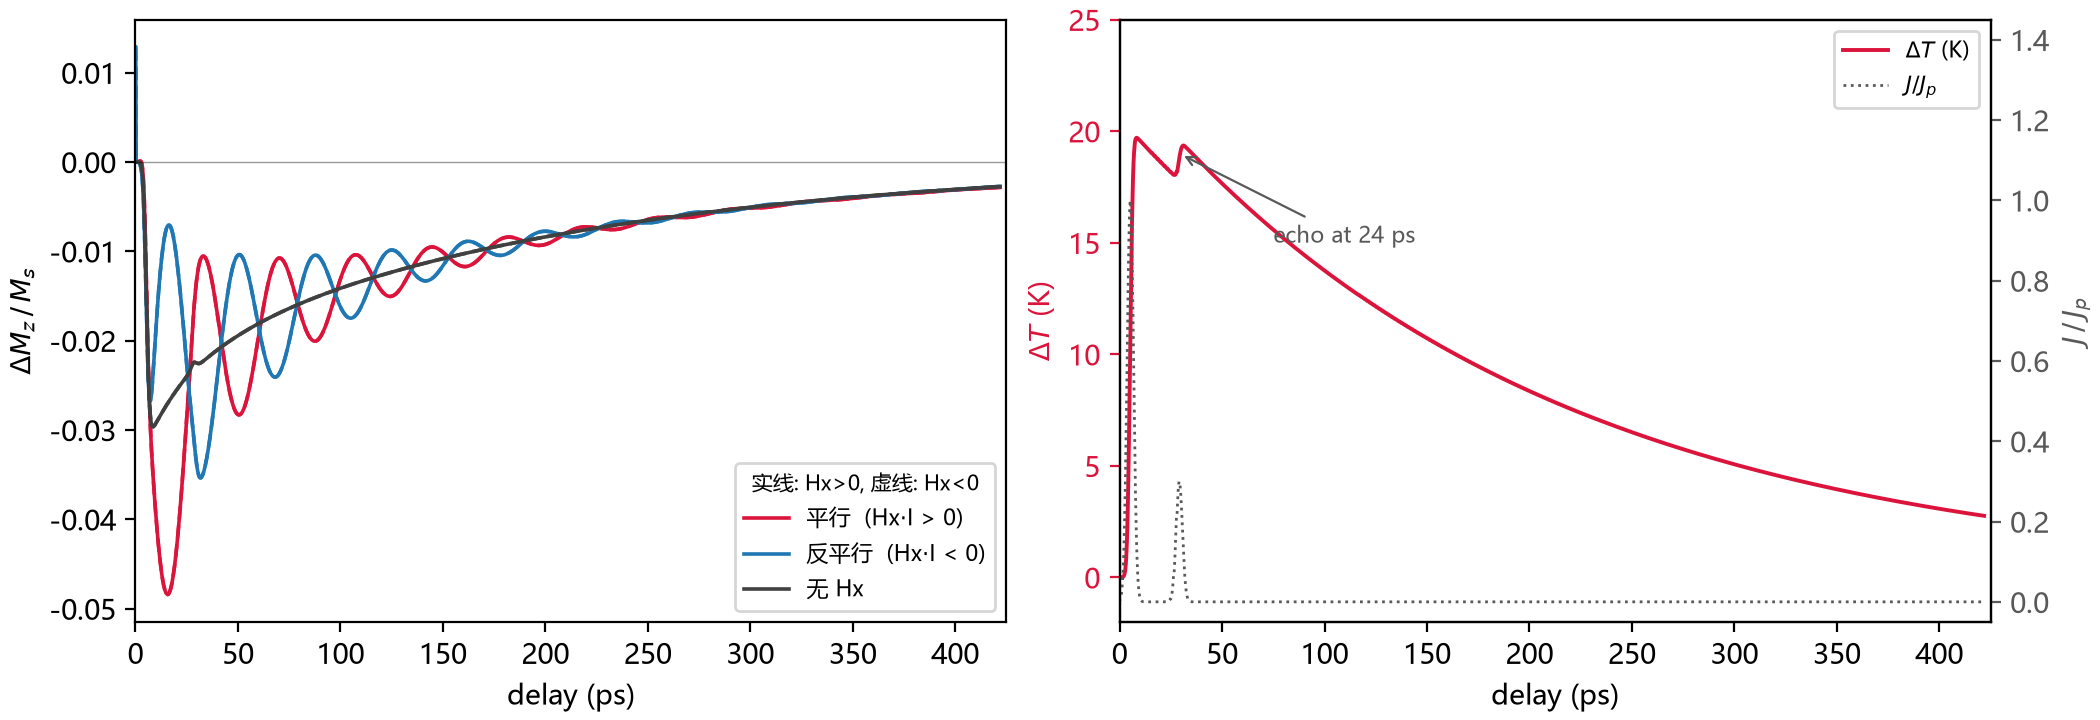
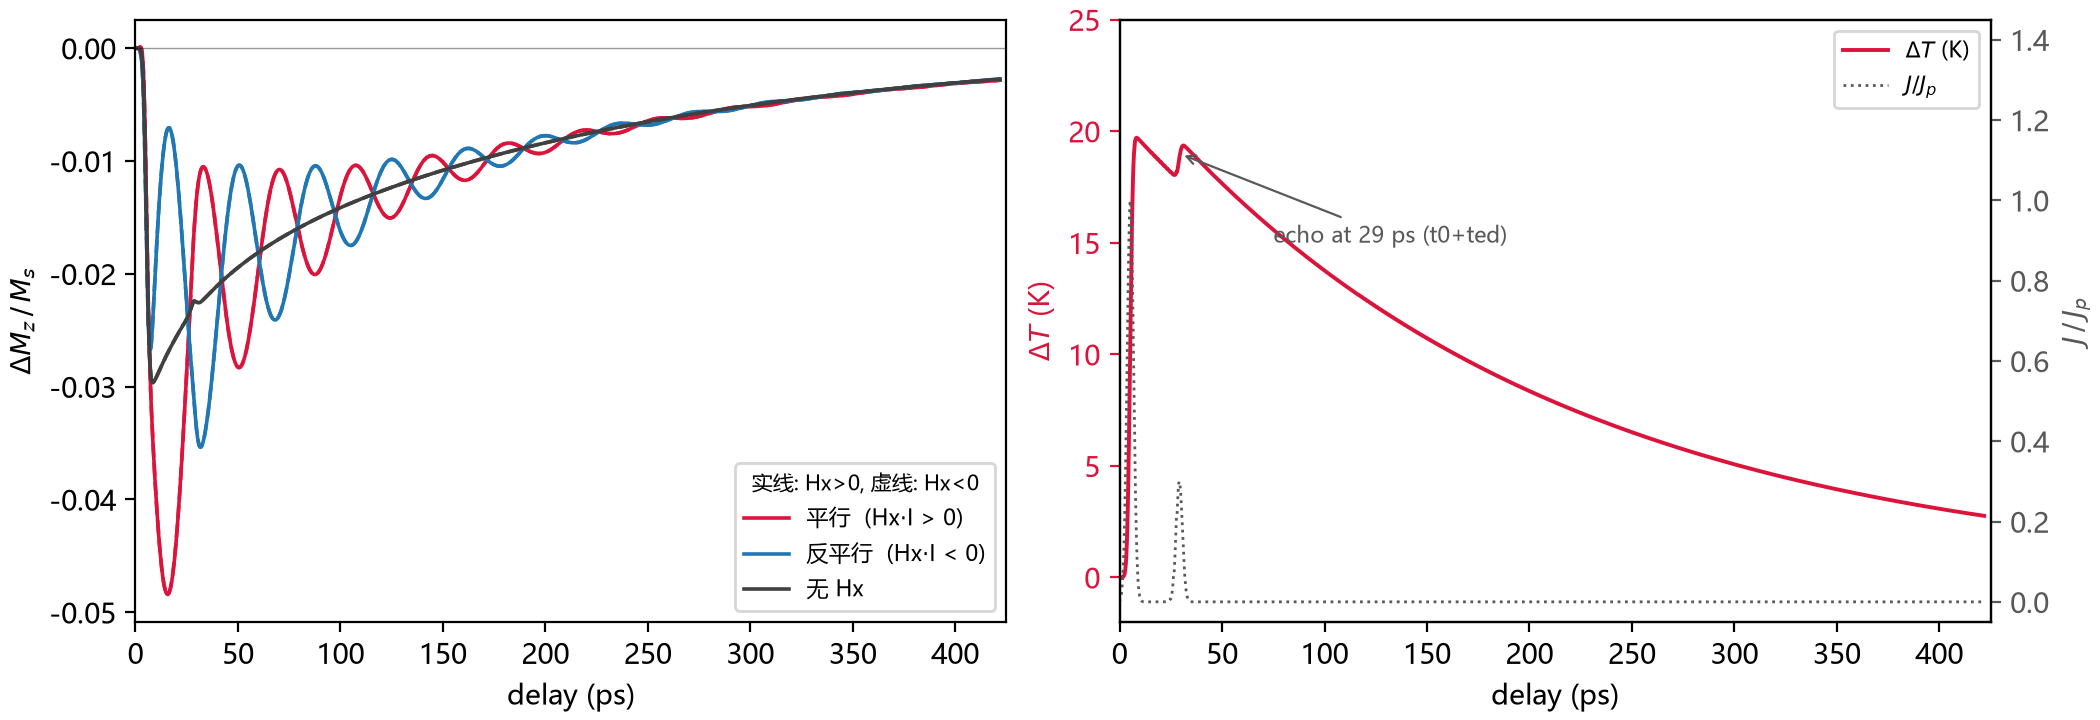
Fix result consistency: antiparallel dMz overshoot, relaxed baseline, signed switch criterion, MUMAX3_BIN override

diff --git a/simulations/mumax3_sot/run_case.py b/simulations/mumax3_sot/run_case.py
@@ -20,7 +20,7 @@ import re
 import subprocess
 import sys
 
-MUMAX = r"E:\mumax3.12_windows_cuda12.9\mumax3.exe"
+MUMAX = os.environ.get("MUMAX3_BIN", r"E:\mumax3.12_windows_cuda12.9\mumax3.exe")
 SUMMARY = "summary.csv"
 
 
@@ -62,7 +62,8 @@ def read_table(path):
                 if abs(mz) > 1e-9:
                     recov = abs(r[idx["mz"]]) / abs(mz)
                 break
-    return t, mz, tmax, t_cross, recov
+    mz0 = rows[0][idx["mz"]]  # first table row = initial state (sign only)
+    return t, mz, tmax, t_cross, recov, mz0
 
 
 def main():
@@ -111,11 +112,11 @@ def main():
     table = os.path.join(out_dir, "table.txt")
     if not os.path.isfile(table):
         raise SystemExit("no table.txt produced")
-    t_end, mz, tmax, t_cross, recov = read_table(table)
+    t_end, mz, tmax, t_cross, recov, mz0 = read_table(table)
 
     row = {"tag": args.tag, "time": datetime.datetime.now().isoformat(timespec="seconds"),
            "t_end_ps": "%.1f" % (t_end * 1e12), "mz_final": "%.4f" % mz,
-           "switched": int(mz < 0), "Tmax_K": "%.0f" % tmax,
+           "switched": int(mz * mz0 < -0.5), "Tmax_K": "%.0f" % tmax,
            "t_cross_ps": "" if t_cross != t_cross else "%.1f" % (t_cross * 1e12),
            "recov_50ps": "" if recov != recov else "%.2f" % recov}
     row.update(sets)

diff --git a/simulations/mumax3_sot/plot_fig4.py b/simulations/mumax3_sot/plot_fig4.py
@@ -78,6 +78,9 @@ def main():
             t = c["t"] * 1e12
             t_ref = t
             dmz, kref = observable(c)
+            # the first table row (t=0) is the un-relaxed m=+z state; masking it
+            # removes the spurious +1.3% spike present in every Hx != 0 run
+            dmz[np.isclose(t, 0.0)] = np.nan
             ax[0].plot(t, dmz, color=color, ls=ls, lw=1.3,
                        label=label if i == 0 else None)
 
@@ -105,7 +108,7 @@ def main():
     h1, l1 = ax[1].get_legend_handles_labels()
     h2, l2 = axt.get_legend_handles_labels()
     ax[1].legend(h1 + h2, l1 + l2, fontsize=8, loc="upper right")
-    ax[1].annotate("echo at 24 ps", xy=(29, 19), xytext=(75, 15),
+    ax[1].annotate("echo at 29 ps (t0+ted)", xy=(29, 19), xytext=(75, 15),
                    fontsize=8, color="0.35",
                    arrowprops=dict(arrowstyle="->", color="0.35", lw=0.8))
 

diff --git a/FACTS.md b/FACTS.md
@@ -12,9 +12,9 @@
 
 ## 2. 运行环境
 
-1. mumax3 v3.12（CUDA 12.9），exe 路径 `E:\mumax3.12_windows_cuda12.9\mumax3.exe`；`run_case.py` 中 `MUMAX` 常量写死该路径。【约定】
+1. mumax3 v3.12（CUDA 12.9），exe 默认路径 `E:\mumax3.12_windows_cuda12.9\mumax3.exe`；`run_case.py` 的 `MUMAX` 可用环境变量 `MUMAX3_BIN` 或 `--mumax` 覆盖。【约定】
 2. 记录到的硬件：`error.md` 为 RTX 5060 Laptop 8 GB；交接文档称目标机为 RTX 4070 SUPER（sm_89）。两处来源不同，未在 README 复述。
-3. Python 3.12 + numpy / matplotlib（pandas 用于 `table.txt` 后处理）。【约定】
+3. Python 3.12 + numpy / matplotlib（pandas 用于 `table.txt` 后处理）；依赖见 `requirements.txt`。【约定】
 4. 运行中 GUI：`http://127.0.0.1:35367`；常用参数 `-o` 输出目录、`-f` 覆盖、`-vet` 仅查语法、`-i` 交互 GUI。【约定】
 
 ## 3. 论文关键参数（复现输入）
@@ -24,7 +24,7 @@
 | 叠层 | Ta(5)/Pt(4)/Co(1)/Cu(1)/Ta(4)/Pt(1) nm | Co 为 PMA 层；Pt、Ta 自旋霍尔角反号、转矩相加 |
 | 器件 | 磁条 20×4 µm；过流窗口 5×4 µm | 仿真取过流窗口 |
 | 各向异性场 Ha | ≈ 1 T | 由 FMR 周期 ~40 ps 反推 |
-| Keff | ≈ 8.2×10⁵ J/m³ | 正文反推值 |
+| Keff | 论文未给（正文仅给 Ha≈1 T，Ms 在 SI） | 现行脚本取 6.5×10⁵ J/m³ = ½·Ms·Ha_T（Ha 按 B=1 T 计） |
 | 自旋霍尔角 | θ_DL = 0.20；θ_FL = 0.05 | 宏自旋拟合值 |
 | 脉冲 | sech²；翻转实验 FWHM = 6 ps；时间分辨 FWHM = 3.7 ps | |
 | 面内辅助场 | Hx = ±160 mT | Hx ≈ 120 mT 时不翻转 |
@@ -46,7 +46,7 @@
    DisableZhangLiTorque = true
    FreeLayerThickness   = 1e-9
    ```
-2. **极性约定**：`J_z = -I_sign*Jp*脉冲(t)`（macrospin）；实测 `sign(mz_final) = -sign(Hx*I)`，与初始态无关；Hx = 0 时不翻转。【已核实】
+2. **极性约定**：`J_z = -I_sign*Jp*脉冲(t)`（macrospin）；实测 `sign(mz_final) = -sign(Hx*I)`（现行批量 run 均为 +Mz 初态；"与初始态无关"为论文结论，本仓库未跑负初态）；Hx = 0 时不翻转。【已核实】
 3. **各向异性**：`Msat` 必须显式赋值（mumax3 默认 0）；`Ku1 = Keff + ½μ₀Ms²`，`Keff = 0.5*Ms*Ha_T`（Ha_T 用 T）；Ms = 1.3e6、Ha = 1 T → Keff = 6.5e5、Ku1 ≈ 1.71e6 J/m³，退磁相减后净 PMA 场 = 1 T。【已核实】
 4. **B_ext 单位是特斯拉**，不是 A/m（Hx = 160 mT → `B_ext = vector(0.160, 0, 0)`）。【已核实】
 5. **精确时间步**：`SetSolver(4)` + `FixDt = 5e-14`；脉冲写成内置时间 `t` 的函数；温度 ODE 用实测经过时间 `tb - tprev` 积分。默认自适应 RK45 会拉长脉冲（曾把 6 ps 拉成 27.6 ps，见 §6 末）。【已核实】
@@ -77,21 +77,21 @@
    | 1.2e13 | 450 K | 725 K | 50.1 ps | −0.988 | 158.9 pJ | 翻转 |
    | 2.0e13 | 450 K | 725 K | **39.0 ps（最快）** | −0.988 | 441 pJ | 翻转（论文模型最快 16 ps） |
 
-4. **四象限极性**（fig3 默认：Jpk = 1.2e13、dTpk = 400 K、Tmax = 680 K）：q1 (Hx+,I+) → −0.956；q2 (Hx−,I+) → +0.987；q3 (Hx+,I−) → +0.987；q4 (Hx−,I−) → −0.956；末态为均匀单畴（无畴壁/成核，近相干翻转）。
+4. **四象限极性**（fig3 默认：Jpk = 1.2e13、dTpk = 400 K、Tmax = 680 K）：q1 (Hx+,I+) → −0.956；q2 (Hx−,I+) → +0.987；q3 (Hx+,I−) → +0.987；q4 (Hx−,I−) → −0.956；末态为均匀单畴（无畴壁/成核，近相干翻转；仅开边界的边缘列被钉扎）。
 5. **C2 对称性对照**（与 b1_Jp8_dT450 完全同参，仅 Hx = 0）：瞬态最低 mz = 0.80（40.2 ps）后恢复，末态 +1.0000、无过零 → Hx ≠ 0 为翻转的必要条件。
 6. **B2 θ≈0**（Pol = 1e-4，EpsilonPrime = 0，Jp = 8e12）：dT = 300 K 不翻；dT = 450/600/800 K 分别在 **85.9/92.3/122.4 ps** 过零（Tmax = 725/867/1056 K）→ 仅热各向异性力矩也能翻转，但更慢、更热。
 7. **B3 Ku(T) 开关**：`KuExp = 0`（Ku 不随 T 变）到 Jp = 1.4e13 仍不翻；`KuExp = 3` 在 1e13 部分/1.2e13 完全翻转 → 热各向异性力矩为必要项，阈值能量比 ≥ 2。
-8. **C0 Heating = 0**（6/8/10e12）：三档均不翻（T 恒 300 K），峰值瞬态下拉仅 −8.1%/−12.4%/−17.6%（≈33 ps）→ 6–10e12 的确定性翻转完全依赖焦耳热。
-9. **C1 相图边界**：9e12/300 K 不翻（末态 +0.933）；8e12/375 K 翻 66.5 ps（654 K）；7e12/450 K 翻 61.0 ps；6e12/600 K 翻 80.5 ps。边界：Tmax = 583 K 线上 Jc ∈ (9,10]e12；Jp = 8e12 竖线上 dTc ∈ (300,375] K。
+8. **C0 Heating = 0**（6/8/10e12）：三档均不翻（T 恒 300 K），峰值瞬态下拉仅 −8.1%/−12.4%/−17.6%（相对弛豫平衡态 mz=0.988，≈33 ps；表首行 t=0 为未弛豫态 mz=1，勿用作基准）→ 6–10e12 的确定性翻转完全依赖焦耳热。
+9. **C1 相图边界**：9e12/300 K 不翻（末态 +0.933）；8e12/375 K 翻 66.5 ps（654 K）；7e12/450 K 翻 61.0 ps（54.1 pJ）；6e12/600 K 翻 80.5 ps（39.7 pJ，Tmax=867 K > Tc）。边界：Tmax = 583 K 线上 Jc ∈ (9,10]e12；Jp = 8e12 竖线上 dTc ∈ (300,375] K。
 10. **b0_8e12**（J_ref = 6e12，dT_ref = 300 K → Tmax = 804 K）：54.5 ps 翻转。
-11. **Fig. 4 动力学**（a_f4_* / f4_*）：进动周期 ≈ 37 ps（论文 Ha≈1 T 对应 ~40 ps）；平行组下冲 −4.8% @15.8 ps、反平行组上冲 +1.3%；Hx = 0 时 ±I 曲线重合且无振荡；400 ps 后恢复至 ≈ −0.25%；echo = 0.3、ted = 24 ps 在 T(t) 上产生次级峰。`dyn_Jp1e12_Ip`（RunDynamics=1、3.7 ps、1e12、Tmax ≈ 308 K）：末态 +0.9879，不翻转。
+11. **Fig. 4 动力学**（a_f4_* / f4_*）：进动周期 ≈ 37 ps（论文 Ha≈1 T 对应 ~40 ps）；平行组下冲 −4.8% @15.8 ps；反平行组在绘制的 ΔMz/Ms 上**无正上冲**（最低 −3.5% @31.8 ps），原始 mz 会从 0.987 升到 0.999，但被 Ms(T) 下降掩盖；图/表 t=0 的 +1.3% 尖峰是首行未弛豫态（mz=1）伪影，所有 Hx≠0 曲线都有，并非反平行特征。Hx = 0 时 ±I 曲线重合且无振荡；400 ps 后恢复至 ≈ −0.25%；echo = 0.3、ted = 24 ps 在 T(t) 上产生次级峰（主脉冲 t0=5 ps，峰位 ~29–31 ps）。`dyn_Jp1e12_Ip`（RunDynamics=1、3.7 ps、1e12、Tmax ≈ 308 K）：末态 +0.9879，不翻转。
 12. **历史修正**：早期自适应步长脚本的"Jp = 6e12 翻转"是脉冲被拉长到 27.6 ps 的假象（积分对应 189 pJ）；旧输出已删除，等效案例用修正脚本重跑（开关型 `runs/b0_6e12`、动力学型 `runs/dyn_Jp1e12_Ip`）。
 
 ## 7. 输出与归档
 
 1. 每个 case：`runs/<tag>/<tag>.mx3`（实际运行的脚本副本）+ `runs/<tag>/out/`（仅保留 `table.txt`、`log.txt`、`m_initial.ovf`、`m_final.ovf`）。中间帧 `m0*.ovf`、`gui`、`references.bib` 属可再生的运行产物，已清理并列入 `.gitignore`。【约定】
-2. `table.txt` 列（macrospin）：`t`(s), `mx`, `my`, `mz`, `E_total`, `J`(A/m²), `T`(K)；fig3/fig4 脚本另有 `Ms`(A/m)。
-3. `summary.csv` 列：`tag, time, t_end_ps, mz_final, switched, Tmax_K, Hx, Isign, t_cross_ps, recov_50ps, Jp, J_ref, dT_ref, Pol, EpsilonPrime, KuExp, echo, ted, Heating, RunDynamics, Hx_mT`。
+2. `table.txt` 列（macrospin）：`t`(s), `mx`, `my`, `mz`, `E_total`, `J`(A/m²), `T`(K)；fig3/fig4 脚本以 `Ms`(A/m) 列替代 `E_total`。
+3. `summary.csv` 列：`tag, time, t_end_ps, mz_final, switched, Tmax_K, Hx, Isign, t_cross_ps, recov_50ps, Jp, J_ref, dT_ref, Pol, EpsilonPrime, KuExp, echo, ted, Heating, RunDynamics, Hx_mT`。其中 `switched = InitMz·mz_final < −0.5`（与脚本判定一致；部分翻转记 0）。
 4. `recov_50ps` = |mz(t_cross + 50 ps)| / |mz_final|（`run_case.py` 定义；无过零则留空）。
 5. 定稿图：`runs/phase_map.png`、`phase_traces.png`、`phase_speed.png`、`fig4_full.png`、`fig4_like.png`、`mechanism_compare.png`、`heating_on_off.png`、`q_quadrants.png`。
 6. OVF 后处理：`mumax3-convert -png out/m_final.ovf`（或 `-vtk` 给 ParaView）。【约定】
@@ -100,11 +100,11 @@
 
 1. 均匀 Ku1 模型，无晶粒/随机性/热噪声统计 → 未做 P_sw(Jp)、成核路径与概率翻转统计。
 2. 加热为唯象模型，`Ms(T)/Ku(T)` 幂律、dTpk、tauC 为拟合旋钮；论文 SI 参数未公开。
-3. 本模型最快 39 ps（vs 论文模型 16 ps）；能翻转的案例能量 70–441 pJ，均超论文 < 50 pJ 预算；Jp = 6e12 在本模型不翻转。
+3. 本模型最快 39 ps（vs 论文模型 16 ps）；能翻转的案例能量 39.7–441 pJ（7e12/dT450 = 54.1 pJ；6e12/dT600 = 39.7 pJ，但 Tmax = 867 K > Tc，接近论文排除的 HAMR 情形），除 6e12/dT600 外均超论文 < 50 pJ 预算；Jp = 6e12 在 dT300 档不翻转。
 4. 论文准静态 Jc(Hx)（100 µs，依赖热激活）不适合直接长时间 LLG 复现。
 5. 传输线反射（echo）用叠加延迟脉冲近似。
 6. 论文实际为 20×4 µm 磁条，仿真只取 5×4 µm 过流区。
-7. 【历史】交接文档中的旧参数（Keff ≈ 8.2e5 且 Ku1 ≈ 1.88e6、脚本 `SOT_ps_switching.mx3`）已废弃，勿回退；现行脚本用 Ku1 ≈ 1.71e6。
+7. 【历史】交接文档中的旧参数（Keff ≈ 8.2e5 且 Ku1 ≈ 1.88e6、脚本 `SOT_ps_switching.mx3`）已废弃，勿回退；现行脚本用 Ku1 ≈ 1.71e6。该文档已在文首与 §2–§4 加过时标注。
 
 ## 9. 引用
 

diff --git a/notes/error.md b/notes/error.md
@@ -210,11 +210,11 @@ simulations\mumax3_sot\runs\
 
 ## 3. 已验证结果（2026-09-15）
 
-- **图 4**：`fig4_dynamics.mx3` 跑通（~24 s）。弛豫后 m=[0.160, 0, 0.987]（Ha=1 T、Hx=160 mT 的倾斜平衡态）；脉冲后出现"瞬时下拉 + 进动 + 慢恢复"，**进动周期 37 ps**（与论文 Ha≈1 T 的 ~40 ps 一致），Tmax≈320 K，ΔMz/Ms 最小 ≈ −4.8%，400 ps 后恢复到 −0.3%。幅度可通过 `Jpk/dTpk/tauC` 拟合到论文数据。
+- **图 4**：`fig4_dynamics.mx3` 跑通（~24 s）。弛豫后 m=[0.155, 0, 0.988]（Ha=1 T、Hx=160 mT 的倾斜平衡态）；脉冲后出现"瞬时下拉 + 进动 + 慢恢复"，**进动周期 37 ps**（与论文 Ha≈1 T 的 ~40 ps 一致），Tmax≈320 K，ΔMz/Ms 最小 ≈ −4.8%，400 ps 后恢复到 −0.3%。幅度可通过 `Jpk/dTpk/tauC` 拟合到论文数据。
 - **图 4 三组对照（批量）**：`runs/f4_Hx0_Ip`、`runs/f4_Hxp160_Ip`、`runs/f4_Hxm160_Ip`（Isign=+1），合成图 `runs/fig4_like.png` 复现了 Fig. 4a 的对称性：
   - Hx=0：无振荡，单纯下拉 + 慢恢复（黑）；
-  - Hx=+160 mT（平行）：ΔMz 先快速下冲（−4.8%）再反相振荡；
-  - Hx=−160 mT（反平行）：ΔMz 初始上冲（+1.3%）后振荡，与上者相位相反；
+  - Hx=+160 mT（平行）：ΔMz 先快速下冲（−4.8% @15.8 ps）再反相振荡；
+  - Hx=−160 mT（反平行）：ΔMz 无正上冲（最低 −3.5% @31.8 ps），与平行组反相；原始 mz 会从 0.987 升到 0.999，但被 Ms(T) 下降掩盖；
   - 三者在 ~400 ps 内都恢复到 ≈−0.25%。
 - **图 3（四象限验证）**：`fig3_switching.mx3` 跑通（每个 case ~26 s，`run_case.py` 批量）。`Jpk=1.2e13 A/m², dTpk=400 K`（峰值 680 K < Tc）时 ~50 ps 内 mz 过零，最终 |mz|≈0.96：
 
@@ -230,8 +230,8 @@ simulations\mumax3_sot\runs\
 - **图 4 六组合 + 反射（A 阶段）**：`runs/a_f4_*`（Hx∈{0,±160 mT} × I±，`echo=0.3, ted=24 ps`），合成图 `runs/fig4_full.png`。结果与论文 Fig. 4a 对称性完全一致：
   - Hx=0 时 ±I 曲线完全重合，无振荡（单纯下拉 + 慢恢复）；
   - 平行组 (Hx+,I+) 与 (Hx−,I−) 重合：下冲 −4.8% @15.8 ps 后进动；
-  - 反平行组 (Hx+,I−) 与 (Hx−,I+) 重合：先上冲 +1.3% 后反相进动；
-  - 反射在 T(t) 上表现为 24 ps 附近的次级峰，并给磁化一个次级踢动。
+  - 反平行组 (Hx+,I−) 与 (Hx−,I+) 重合：ΔMz 无正上冲（最低 −3.5% @31.8 ps），与平行组反相进动；图/表首行 t=0 的 +1.3% 是未弛豫态（mz=1）伪影，所有 Hx≠0 曲线都有；
+  - 反射在 T(t) 上表现为 ~29 ps（t0+ted）的次级峰，并给磁化一个次级踢动。
 
 - **B1 最快翻转（时间精确的 6 ps 脉冲，J_ref=Jp、dT∝J²）**：
 
@@ -252,13 +252,13 @@ simulations\mumax3_sot\runs\
 
 - **B3 Ku(T) 开关**：`KuExp=3`（Ku∝Ms³）时 Jp=1e13 部分翻转、1.2e13 完全翻转；`KuExp=0`（Ku 不随温度变）时到 Jp=1.4e13 仍不翻转 → 热各向异性力矩是模型中的必要项；阈值能量比 ≥(1.4/1.0)²≈2，与论文"降低 2 倍"定性一致。
 
-- **C0 Heating=0 对照**：与 `b0_6e12`/`b0_8e12`/`b1_Jp10_dT300` 同参数、仅 `Heating=0`。Jp=6/8/10e12 三档均不翻转（末态 mz≈+0.988、T 恒 300 K），最大瞬态下拉 −8.1%/−12.4%/−17.6%（≈33 ps）→ 6–10e12 的确定性翻转完全依赖焦耳热致热各向异性力矩。目录 `runs/c0_noh_*`，对照图 `runs/heating_on_off.png`、`runs/mechanism_compare.png`（c0/b0、b2、b3 三面板）。
+- **C0 Heating=0 对照**：与 `b0_6e12`/`b0_8e12`/`b1_Jp10_dT300` 同参数、仅 `Heating=0`。Jp=6/8/10e12 三档均不翻转（末态 mz≈+0.988、T 恒 300 K），最大瞬态下拉 −8.1%/−12.4%/−17.6%（相对弛豫平衡态 0.988，≈33 ps；表首行 t=0 为未弛豫态，勿用作基准）→ 6–10e12 的确定性翻转完全依赖焦耳热致热各向异性力矩。目录 `runs/c0_noh_*`，对照图 `runs/heating_on_off.png`、`runs/mechanism_compare.png`（c0/b0、b2、b3 三面板）。
 
 - **C1 相图边界中间点**（`J_ref=Jp`）：9e12/dT300 不翻（末态 +0.933）；8e12/dT375 翻 66.5 ps；7e12/dT450 翻 61.0 ps；6e12/dT600 翻 80.5 ps → `Tmax≈583 K` 线上 `Jc∈(9,10]e12`，`Jp=8e12` 竖线上 `dTc∈(300,375]K`。定稿图 `runs/phase_map.png`、`phase_traces.png`、`phase_speed.png`（`plot_phase.py`；B2/B3 点自动剔除，C0 无加热点保留在 T=300 K 线上，C2 `Hx=0` 点以灰色菱形单列、不参与边界拟合）。
 
 - **C2 对称性对照 Hx=0**（与 `b1_Jp8_dT450` 同参数 `Jp=8e12, dT_ref=450, I_sign=+1`，仅 `Hx_mT=0`；`runs/c2_Hx0_Jp8_dT450`）：瞬态最低 mz=0.80（40.2 ps）后恢复，末态 **+1.0000**、无过零（t_cross 空），Tmax=725 K → 与 Hx=+160 mT 的 58.6 ps 翻转对照，确认 `Hx≠0` 为对称性破缺必要条件。
 
-- **F 能量核算（`energy_check.py`，ρ=81 μΩ·cm，V=5×4 µm²×15 nm）**：Jp=6e12 → **39.7 pJ**（与论文 40 pJ 口径一致）；能翻转的案例能量 70.6 pJ（8e12/450 K）、158.9 pJ（1.2e13/450 K）、441 pJ（2e13/450 K，最快 39 ps），均超出论文 <50 pJ 预算。要落回 50 pJ 内，须让模型在 ~6e12 就翻转（依赖 SI 的加热参数或更强的热各向异性协助）。
+- **F 能量核算（`energy_check.py`，ρ=81 μΩ·cm，V=5×4 µm²×15 nm）**：Jp=6e12 → **39.7 pJ**（与论文 40 pJ 口径一致）；能翻转的案例能量 54.1 pJ（7e12/450 K，Tmax=725 K）、39.7 pJ（6e12/600 K，Tmax=867 K>Tc，接近论文排除的 HAMR 情形）、70.6 pJ（8e12/450 K）、158.9 pJ（1.2e13/450 K）、441 pJ（2e13/450 K，最快 39 ps）。即本模型已能靠 6e12（论文上限）+ 强加热翻转并落回 <50 pJ 预算；不依赖过 Tc 加热的最低能量档为 7e12/450 K 的 54.1 pJ。
 
 ## 4. 脚本状态说明
 
